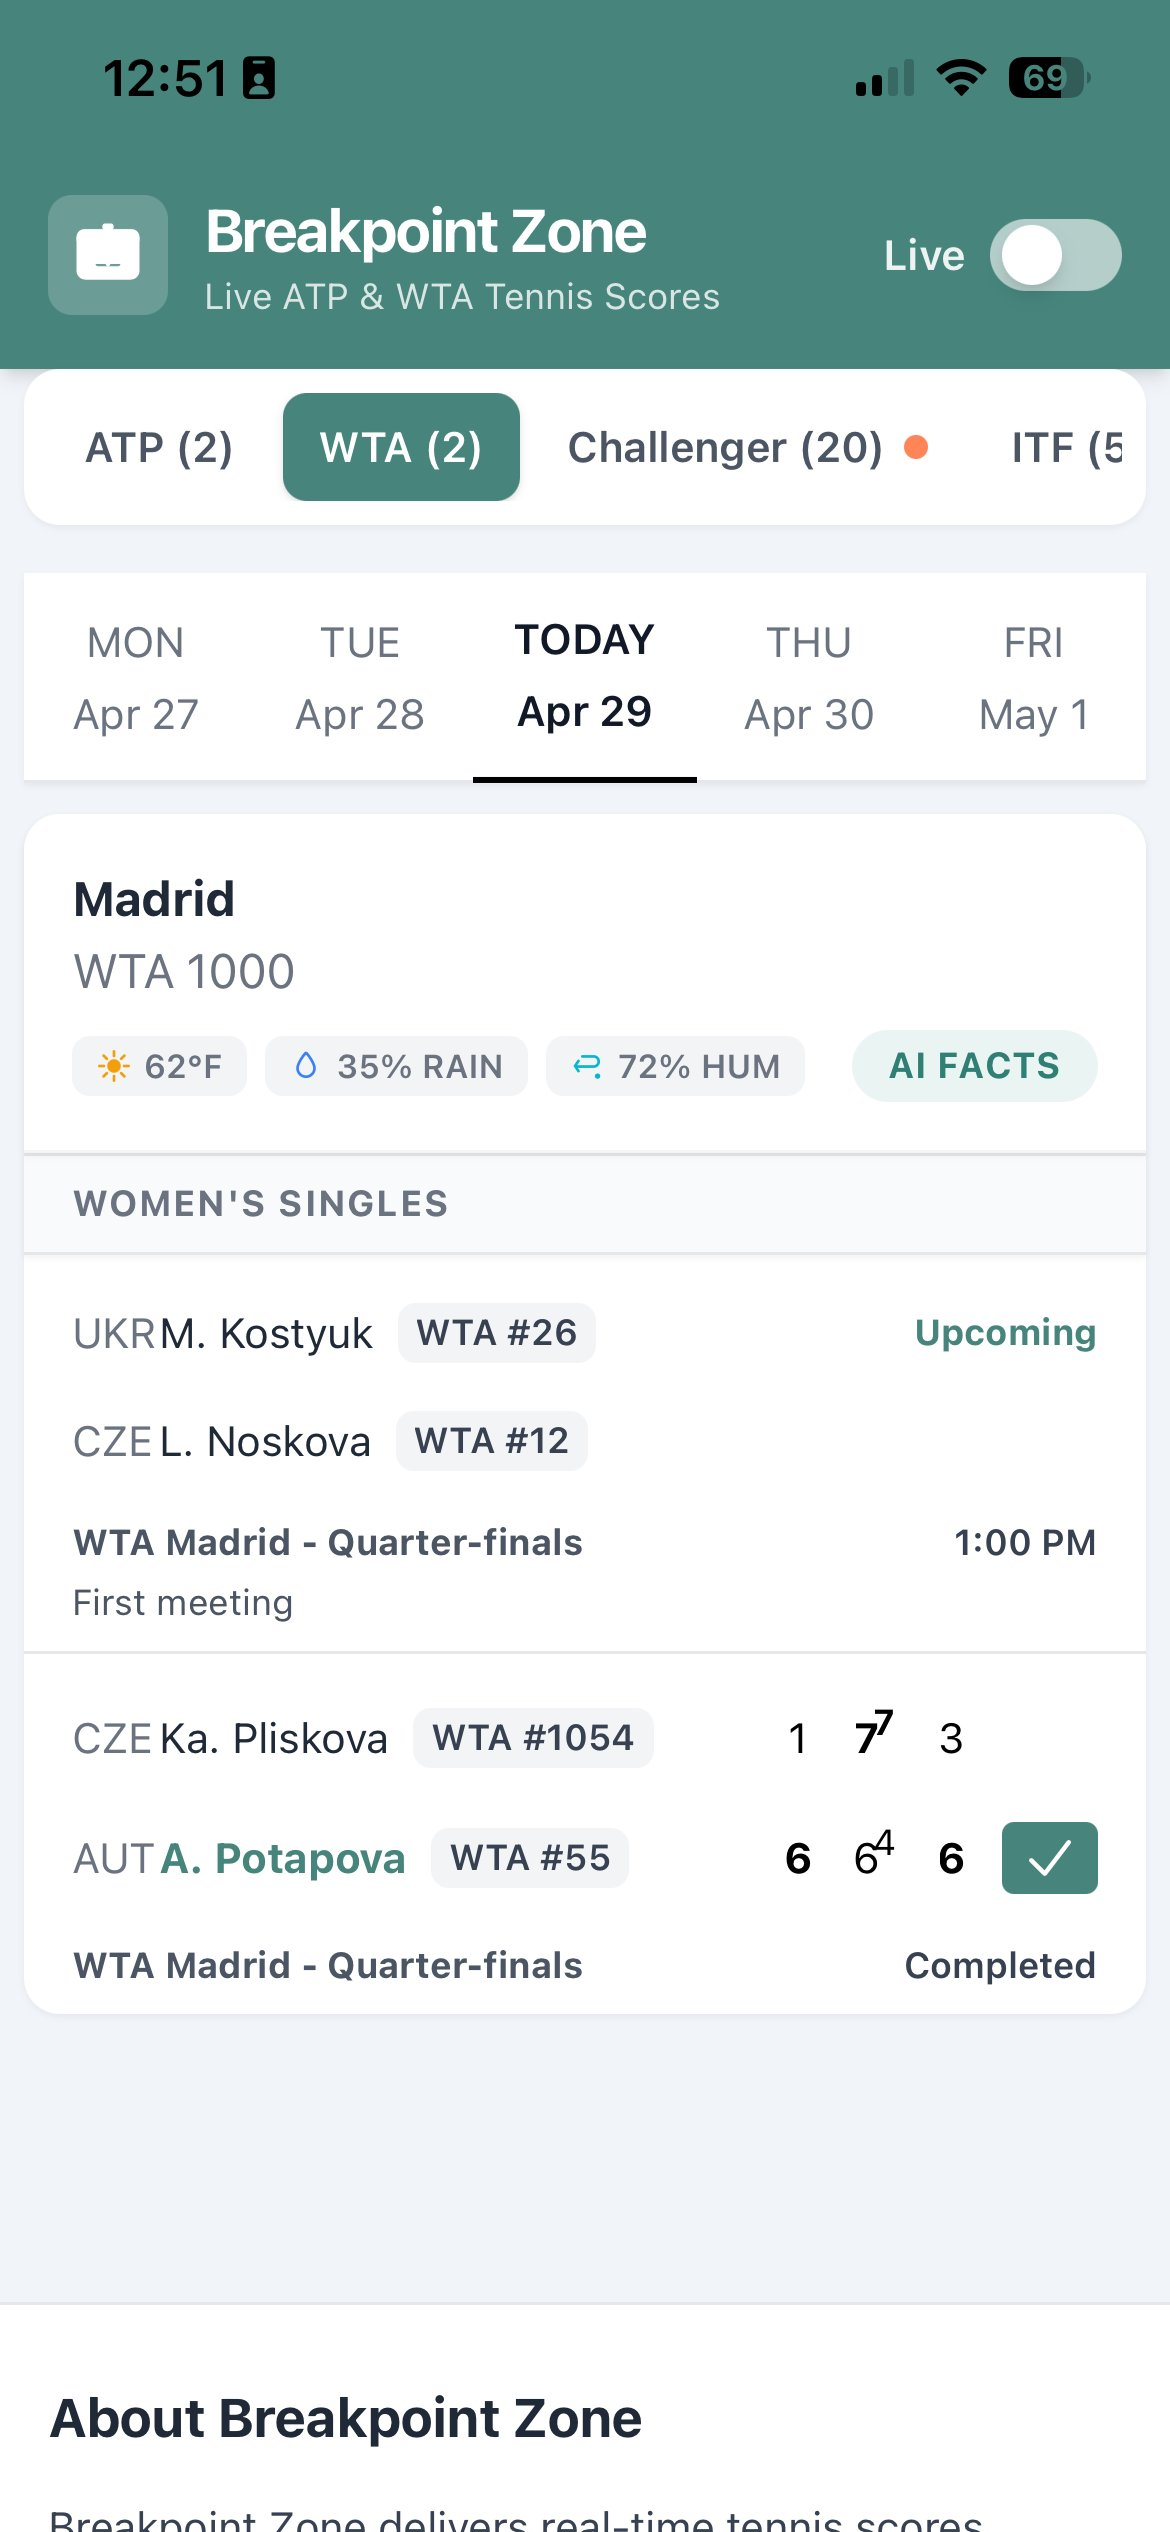
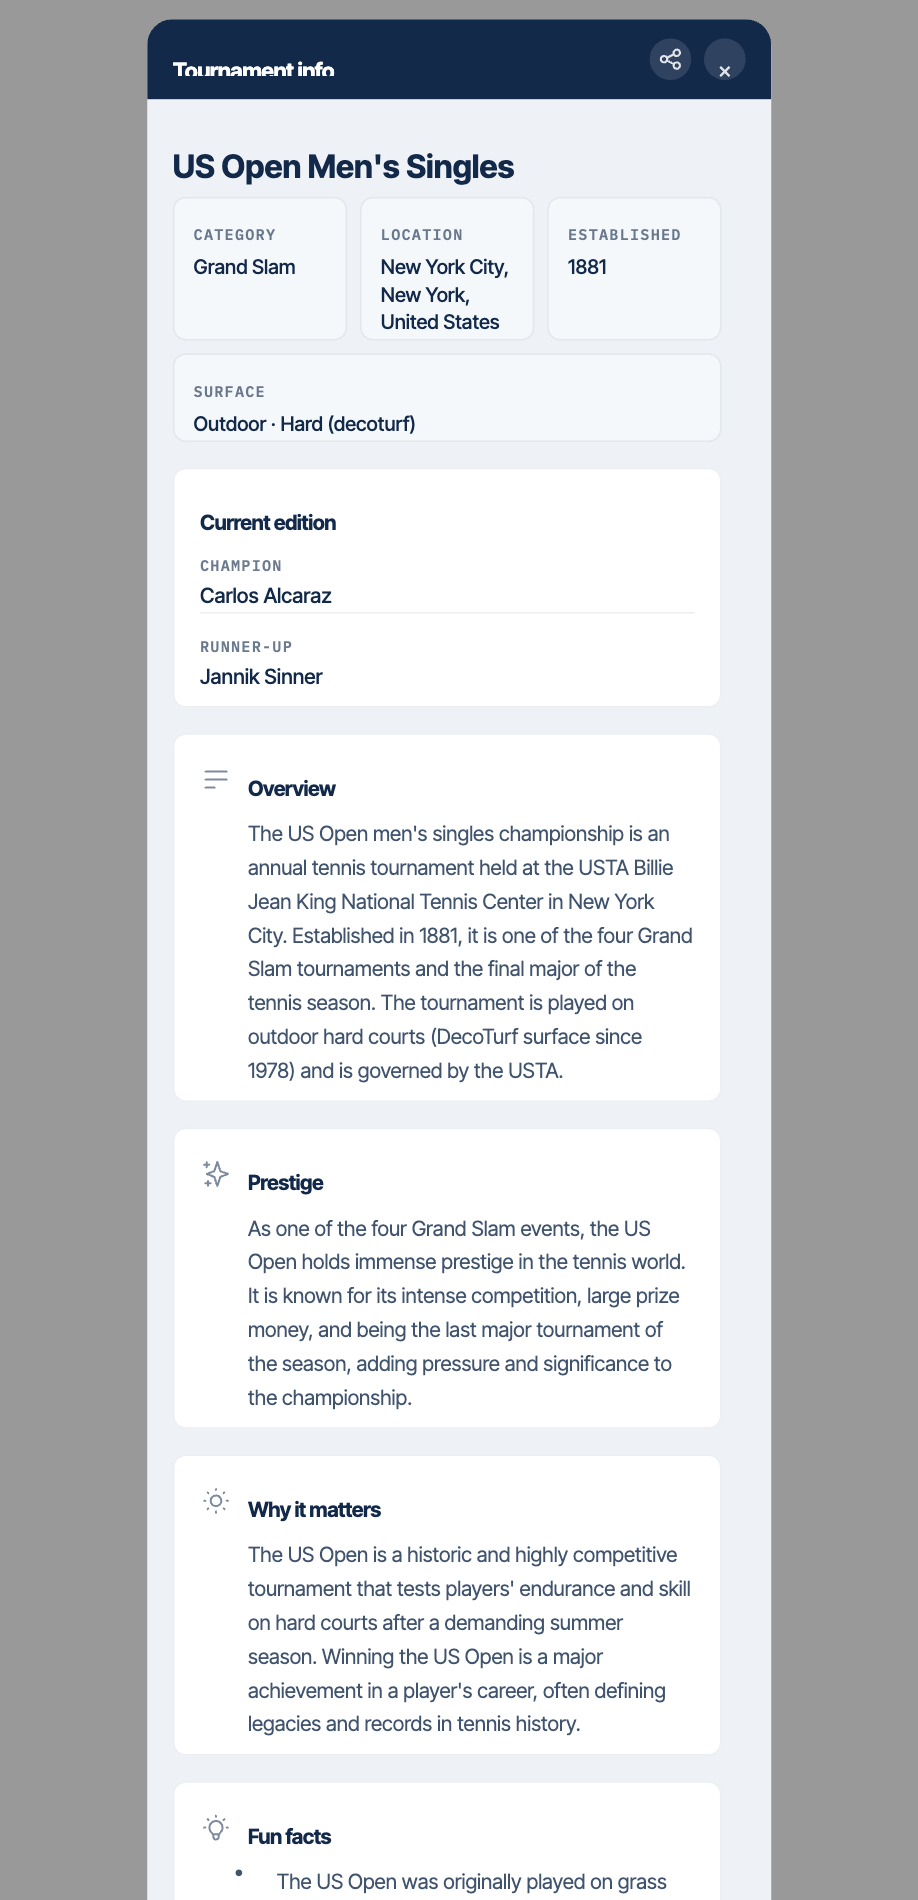
Update README with new features (Chrome extension, Rankings, Match Highlights, Stream Sync) and fresh US Open screenshots

diff --git a/README.md b/README.md
@@ -1,6 +1,6 @@
 # Breakpoint Zone 🎾
 
-> Live ATP & WTA tennis scores with tournament intelligence.
+> Live ATP & WTA tennis scores with tournament intelligence — now with a Chrome extension, live rankings, and match highlights.
 
 **Live:** [breakpoint.zone](https://breakpoint.zone)
 
@@ -8,31 +8,44 @@
 
 ## What it does
 
-Breakpoint Zone is a fast, mobile-friendly web app for tennis fans to track live and scheduled matches across ATP, WTA, Challenger, and ITF tournaments — enriched with real-time weather and AI-generated tournament context.
+Breakpoint Zone is a fast, mobile-friendly web app (and Chrome extension) for tennis fans to track live and scheduled matches across ATP, WTA, Challenger, and ITF tournaments — enriched with real-time weather, AI-generated tournament context, video highlights, and world rankings.
 
 1. **Live scores** — real-time match updates polling every ~15 seconds, no page reload needed
-2. **ATP / WTA / Challenger / ITF tabs** — filter by tour with live match counts per tab
+2. **Draw-based tabs** — Men's / Women's Singles & Doubles at a glance, with ATP / WTA / Challenger / ITF tier filtering
 3. **Date navigation** — browse matches across the week with a simple day picker
 4. **Live only toggle** — instantly filter down to matches in progress
-5. **Tournament weather** — surface conditions (temperature, rain chance, humidity) shown per tournament
-6. **AI Facts** — Gemini-powered fun facts and tournament history surfaced per event
-7. **Tournament info panel** — category, location, surface, current champion, overview, and notable winners
+5. **Stream Sync** — hold live scores back 5–60 seconds so they don't spoil a delayed TV or stream broadcast
+6. **Match Highlights** — video highlight counts on every match card, plus a dedicated highlights feed
+7. **Rankings** — live ATP & WTA singles and doubles rankings, with movement indicators and country filtering
+8. **Tournament weather** — real-time conditions (temperature, rain chance, humidity) shown per tournament
+9. **AI Facts** — AI-generated fun facts and tournament history surfaced per event
+10. **Tournament info panel** — category, location, surface, current champion, overview, and notable winners
+11. **Chrome extension** — the full live-scores experience in a side panel, one click away in your browser
 
 ---
 
 ## Screenshots
 
-### Live Scores
-![Live Scores](bz-screenshot-live.png)
+### Live Scores — Fri, Sept 11 (Semifinals)
+![Live Scores](bz-screenshot-live.jpg)
 
-### Today's Schedule
-![Today's Schedule](bz-screenshot-scores.png)
+### Live Scores — Sat, Sept 12 (Women's Final)
+![Women's Final](bz-screenshot-womens-final.jpg)
+
+### Live Scores — Sun, Sept 13 (Men's Final)
+![Men's Final](bz-screenshot-scores.jpg)
 
 ### Tournament Info
 ![Tournament Info](bz-screenshot-tournament-info.png)
 
 ### AI Fun Facts
 ![AI Fun Facts](bz-screenshot-fun-facts.png)
+
+### Rankings 🆕
+![Rankings](bz-screenshot-rankings.png)
+
+### Match Highlights 🆕
+![Match Highlights](bz-screenshot-highlights.jpg)
 
 ---
 
@@ -41,10 +54,12 @@ Breakpoint Zone is a fast, mobile-friendly web app for tennis fans to track live
 | Layer | Technology |
 |-------|-----------|
 | **Frontend** | React · Vite · TypeScript · Tailwind CSS |
+| **Browser extension** | Chrome Manifest V3 side panel (`@crxjs/vite-plugin`), sharing the website's codebase |
 | **Backend** | Node.js · Express · Vercel Serverless Functions |
-| **Database** | Supabase (Postgres, RLS-protected facts storage) |
-| **AI** | Google Gemini (tournament fun facts generation) |
-| **Automation** | n8n (async facts enrichment pipeline) |
+| **Database** | Supabase (Postgres, RLS-protected facts & rankings storage) |
+| **Live data** | api-tennis.com (scores, standings) |
+| **AI** | OpenAI (structured JSON tournament fun-facts generation) |
+| **Automation** | n8n (async facts enrichment + weekly doubles-rankings scrape) |
 | **Weather** | SerpAPI (real-time tournament location weather) |
 | **Payments** | Stripe (donation flow via payment links) |
 
@@ -53,18 +68,22 @@ Breakpoint Zone is a fast, mobile-friendly web app for tennis fans to track live
 ## How it works
 
 ```
-User opens app
+User opens app (web or Chrome side panel)
       │
       ▼
 Scores fetched & rendered progressively by tournament
       │
       ▼
-Live matches polled every ~15s for score updates
+Live matches polled every ~15s for score updates (optionally delayed via Stream Sync)
       │
       ├── Weather API → per-tournament conditions (5min cache)
       │
+      ├── Rankings → api-tennis.com (singles) + weekly n8n scrape (doubles) → Supabase
+      │
+      ├── Highlights → per-match video counts + dedicated highlights feed
+      │
       └── AI Facts pipeline:
-            Enqueue job → n8n worker → Gemini generates facts
+            Enqueue job → n8n worker → OpenAI generates facts
             → signed callback → Supabase → frontend reads
 ```
 
@@ -74,9 +93,11 @@ Live matches polled every ~15s for score updates
 
 - **Progressive rendering** — tournaments appear as data loads, no all-at-once blocking
 - **Live delta updates** — only active matches re-fetch, keeping the UI snappy
+- **Stream Sync** — deliberately delayed scores so live coverage never spoils a broadcast you're behind on
 - **Async facts pipeline** — AI enrichment runs in the background with retry/requeue support
-- **Graceful degradation** — weather and facts failures never break the core score experience
+- **Graceful degradation** — weather, facts, and highlights failures never break the core score experience
 - **Secure internals** — HMAC-verified callbacks, server-side-only Supabase service keys, token-gated admin routes
+- **One codebase, two surfaces** — the Chrome extension reuses the website's components, hooks, and services
 
 ---
 
